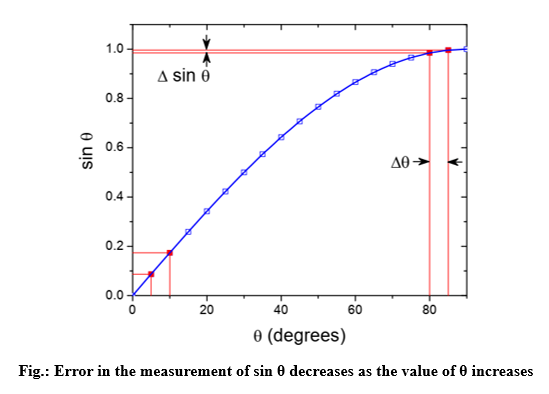
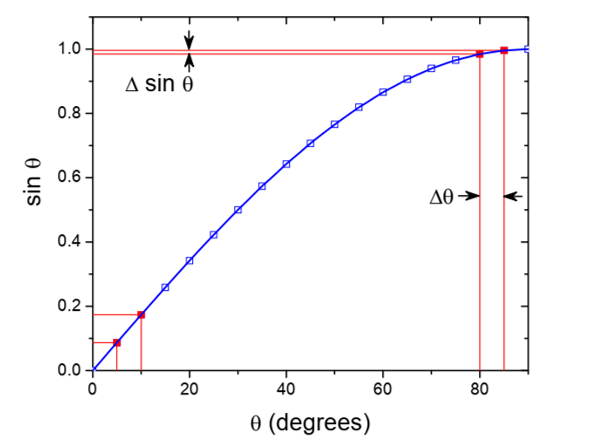
experiment updated

Changed region(s): [[0.031, 0.0305, 0.9599, 0.9746]]

diff --git a/experiment/theory.md b/experiment/theory.md
@@ -1,25 +1,43 @@
-<img src="images/figure1.png"><br>
-	For a cubic material: 
-d<sub>(hkl)</sub>=  a/√(h²+k²+l²)				(1)
-	d-spacing is measured from Bragg’s law. nλ=2d sinθ		<br>		(2)
-	Precision in measurement of a or d depends on precision in derivation of sin θ.<br>
-<img src="images/figure2.png"><br>
-	Differentiation of the Bragg equation with respect to θ provides us with the same result.
-nλ=2d sinθ <br>			(3)
-	Take partial derivative of the Bragg equation:
- 				0=2 ∆d sinθ+2 d cos ∆θ<br>		(4)
-∆d/d=-(cos θ)/(sin θ)  ∆θ=-cot θ ∆θ	<br>		(5)
-	For a cubic system: <br>
-∆a=∆d .√(h^2+k^2+l^2 )				(6)
-				       ∆a/a=∆d/d=-cot θ ∆θ <br>		       (7)
-	The term ∆a⁄a  ((or ∆d)⁄(d))is the fractional error in a (or d) caused by a given error in θ. The fractional error approaches zero as θ approaches 90°.<br>
-	Values of a will approach the true value as we approach 2θ = 180° (i.e., θ = 90°). We can’t measure a value at 2θ = 180°. We must plot measured values and extrapolate to 2θ = 180° versus some function of θ.<br>
-	For a cubic crystal with a lattice parameter a, a Nelson-Riley extrapolation function is used:
-F(θ)=K((〖cos〗^2 θ)/sinθ +(〖cos〗^2  θ)/θ)					(8)
+Errors in measurement of interplanar spacing d and lattice parameter(s) a using modern diffractometers can occur due to : <br><br>
+•	Misalignment of the instrument<br>
+•	Absorption of X-Rays by the specimen<br>
+•	Displacement of the specimen from the diffractometer axis must be minimized (observational error)<br>
+•	Vertical divergence of the incident beam<br>
+•	Use of a flat specimen instead of a curved one to correspond to the diffractometer circle<br><br>
 
-Errors in measurement of interplanar spacing d and lattice parameter(s) a using modern diffractometers can occur due to:<br>
-	Misalignment of the instrument
-	Absorption of X-Rays by the specimen
-	Displacement of the specimen from the diffractometer axis must be minimized
-	Vertical divergence of the incident beam
-	Use of a flat specimen instead of a curved one to correspond to the diffractometer circle.
+<img src="images/figure1.png"><br>
+Figure 1: X-Ray Diffractogram for an FCC material<br><br>
+
+<b>Observational error :</b><br><br>
+
+•	For a cubic material : <br>
+<img src="images/image_1.png">           (1)<br>
+
+Where the d-spacing is measured from Bragg’s law : <b>nλ = 2d sinθ</b>		(2)<br>
+Here, n = 1 which is the first order of diffraction and λ = 1.5406 Å for Cu-K<sub>α</sub> radiation.<br><br>
+
+•	Precision in measurement of a or d depends on precision in derivation of sinθ.<br>
+<img src="images/figure2.png"><br>
+
+Figure 2: Error in the measurement of sin θ decreases as the value of θ increases<br><br>
+
+•	Take partial derivative of the Bragg equation : <br>
+<img src="images/image_2.png">           (3)<br>
+<img src="images/image_3.png">           (4)<br><br>
+
+•	For a cubic system : 
+<img src="images/image_4.png">           (5)<br>
+<img src="images/image_5.png">           (6)<br><br>
+
+•	The term ∆a⁄a  (or ∆d⁄d) is the fractional error in a (or d) caused by a given error in θ. The fractional error approaches zero as θ approaches 90°.<br><br>
+
+•	Values of a will approach the true value as we approach 2θ = 180° (i.e., θ = 90°). We can’t measure a value at 2θ = 180°. We must plot measured values and extrapolate to 2θ = 180° versus some function of θ.<br><br>
+
+<b>Absorption Error :<br><br>
+
+•	For a cubic crystal with a lattice parameter a, a Nelson-Riley extrapolation function is used :<br>
+<img src="images/image_5.png">           (7)<br><br>
+
+
+
+

diff --git a/experiment/procedure.md b/experiment/procedure.md
@@ -1,4 +1,12 @@
-From the diffractogram, we will obtain the values of all the parameters, viz., 2θ, θ, θ in radians, sin θ, sin2θ, cos2 θ and calculate the (h k l) planes for each peak and the corresponding values of a in each case. Further, we will plot F(θ) vs a and perform a linear fitting of the data obtained. The line of best fit which will be obtained will be further extrapolated to F(θ) = 0 and the y-intercept will give us the precise lattice parameter for the particular material.<br>
- FCC: The above procedure yields a precise lattice parameter for FCC to be 3.631 Å.<br>
-<img src="images/figure3.png"><br>
-<img src="images/figure4.png"><br>
+<b>Steps : </b> <br><br>
+
+1.	From the diffractogram, we will obtain the values of all the parameters, viz., 2θ, θ, θ in radians, sin θ, sin<sup>2</sup>θ, cos<sup>2</sup>θ <br>
+2.	Calculate the (h k l) planes for each peak using equation (1)<br>
+3.	Calculate the corresponding values of a in each case. <br>
+4.	Further, plot <b>F(θ) vs a<b> and perform a linear fitting of the data obtained.<br> 
+5.	The line of best fit which will be obtained will be further extrapolated to <b>F(θ) = 0</b> and the y-intercept will give us the precise lattice parameter for the particular material.<br><br>
+
+<b>FCC</b> : The above procedure yields a precise lattice parameter for FCC to be 3.631 ± 0.003 Å. <br><br>
+
+<img src="images/image_8.png">
+
